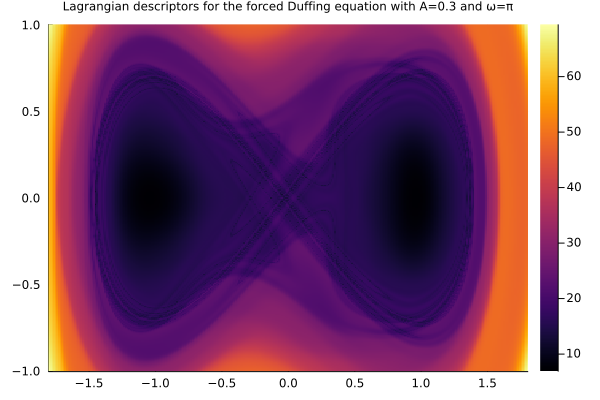
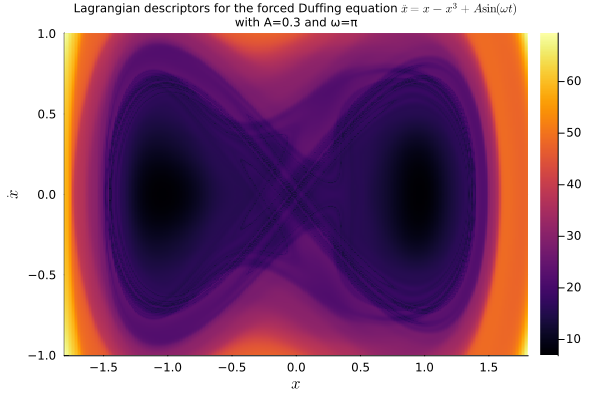
reorganize

diff --git a/docs/src/tutorial_ODEs.md b/docs/src/tutorial_ODEs.md
@@ -1,0 +1,100 @@
+# Ordinary Differential Equations
+
+We considere, here, some examples of applying the Lagragian descriptor method to equations of the type `ODEProblem`.
+
+## Periodically-forced Duffing equation
+
+We start with an application of the method of Lagrangian descriptors to the periodically-forced Duffing equation
+
+```math
+\ddot x = x - x^3 + A\sin(\omega t).
+```
+
+With `LagrangianDescriptors.jl`, we start by setting up the equation as an `ODEProblem` from [SciML/DifferentialEquations.jl](https://github.com/SciML/DifferentialEquations.jl).
+
+Next, we wrap that as a `LagrangianDescriptorProblem` from `LagrangianDescriptors.jl`, which we can solve as an ensemble problem.
+
+Finally, we plot the result with the built-in plot recipe.
+
+So we first load the relevant packages:
+
+```julia duffing
+using OrdinaryDiffEq, Plots
+using LinearAlgebra: norm
+using LagrangianDescriptors
+```
+
+Next we set up the `ODEProblem`:
+
+```julia duffing
+function f!(du, u, p, t)
+    x, y = u
+    A, ω = p
+    du[1] = y
+    du[2] = x - x^3 + A * cos(ω * t)
+end
+
+u0 = [0.5, 2.2]
+tspan = (0.0, 13.0)
+A = 0.3; ω = π; p = (A, ω)
+
+prob = ODEProblem(f!, u0, tspan, p)
+```
+
+With the ODE problem setup, we choose an infinitesimal Lagrangian descriptor, a collection of initial conditions on the phase space, which is the region to be "painted", and finally we build the `LagrangianDescriptorProblem`:
+
+```julia duffing
+M(du, u, p, t) = norm(du)
+
+uu0 = [[x, y] for y in range(-1.0, 1.0, length=301), x in range(-1.8, 1.8, length=301)]
+
+lagprob = LagrangianDescriptorProblem(prob, M, uu0)
+```
+
+The Lagrangian descriptors are the time-integration of the infinitesimal descriptor along forward and backward solutions of the equation. They are integrated along with the solutions by "solving" the `LagrangianDescriptorProblem`, with an overload of the `solve` method from the [SciML](https://sciml.ai) ecosystem:
+
+```julia duffing
+lagsol = solve(lagprob, Tsit5())
+```
+
+With the solution at hand, we plot the Lagrangian descriptors to visualize the dynamics of the system:
+
+```julia duffing
+plot(lagsol, title="Lagrangian descriptors for the forced Duffing equation \$\\ddot x = x - x^3 + A\\sin(\\omega t)\$\nwith A=$A and ω=$ω", titlefont=8, xlabel="\$x\$", ylabel="\$\\dot x\$")
+
+savefig("img/duffing.png")
+```
+
+![Duffing](img/duffing.png)
+
+We may zoom closer to the origin to find the following "painting":
+
+```julia duffing
+uu0 = [[x, y] for y in range(-0.6, 0.3, length=601), x in range(-0.2, 0.4, length=401)]
+lagprob = LagrangianDescriptorProblem(prob, M, uu0)
+
+lagsol = solve(lagprob, Tsit5());
+
+plot(lagsol, title="Lagrangian descriptors for the forced Duffing equation \$\\ddot x = x - x^3 + A\\sin(\\omega t)\$\nwith A=$A and ω=$ω", titlefont=8, xlabel="\$x\$", ylabel="\$\\dot x\$")
+
+savefig("img/duffing2.png")
+```
+
+![Duffing](img/duffing2.png)
+
+If we want to change parameters, we just `remake` the original `ODEProblem` (in the future I should add the option to remake the `LagrangianDescriptorProblem` itself.)
+
+```julia
+A = 5.0; ω = 2π; p = (A, ω);
+prob = remake(prob, p=p)
+uu0 = [[x, y] for y in range(-0.5, 0.2, length=501), x in range(-0.3, 0.2, length=401)]
+lagprob = LagrangianDescriptorProblem(prob, M, uu0)
+
+lagsol = solve(lagprob, Tsit5());
+
+plot(lagsol, title="Lagrangian descriptors for the forced Duffing equation \$\\ddot x = x - x^3 + A\\sin(\\omega t)\$\nwith A=$A and ω=$ω", titlefont=8, xlabel="\$x\$", ylabel="\$\\dot x\$")
+
+savefig("img/duffing3.png")
+```
+
+![Duffing](img/duffing3.png)

diff --git a/docs/src/index.md b/docs/src/index.md
@@ -8,15 +8,15 @@ The method is akin to droping colored ink in a fluid flow, tracking the dye as i
 
 It is similar to drawing a phase portrait, which displays a collection of orbits, but in this method each orbit is painted according to its dynamic behavior, better revealing the overall picture.
 
-The image below, for instance, shows the dynamics of a periodically-forced Duffing equation, with a particular combination of parameters and near time $t=0$:
+The image below, for instance, shows the dynamics of a periodically-forced Duffing equation, with a particular combination of parameters and near time $t=0$ (see [Tutorial: Periodically-forced Duffing equation](tutorial_ODEs.md#Periodically-forced-Duffing-equation)):
 
 ![Duffing](img/duffing.png)
 
-## How it works?
+## How it works
 
 The package works by 
 1. taking a differential equation problem of a type defined by [SciML/DifferentialEquations.jl](https://github.com/SciML/DifferentialEquations.jl), with a given time span ``(t_0, t_f)``;
-1. taking an *infinitesimal descriptor* ``M=M(du, u, p, t)`` that will be integrated along a solution ``u(t) = u(t; u_0)``, to yield the forward Lagrangian descriptor ``L_{\mathrm{fwd}}(u_0) = \int_{t_0}^{t_f} M(du(t), u(t), p, t)\;\mathrm{d}t`` and, similarly, the backward Lagrangian descriptor, for a given initial condition ``u_0``;
+1. taking an *infinitesimal descriptor* ``M=M(du, u, p, t)`` that will be integrated along a solution ``u(t) = u(t; u_0)``, to yield the forward Lagrangian descriptor ``L_{\mathrm{fwd}}(u_0) = \int_{t_0}^{t_f} M(du(t), u(t), p, t)\;\mathrm{d}t`` and, similarly, the backward Lagrangian descriptor ``L_{\mathrm{bwd}}(u_0) = \int_{t_0}^{t_f} M(du(-t), u(-t), p, 2t_0 - t)\;\mathrm{d}t``, for a given initial condition ``u_0``;
 1. generating an *augmented* problem of the same time and with four components, for solving the original equation forward and backward in time, and for solving the Lagrangian descriptors forward and backward in time, as well;
 1. creating a `LagrangianDescriptorProblem` wrapping an [EnsembleProblem](https://diffeq.sciml.ai/dev/features/ensemble/) for the augmented system and with a given collection ``uu_0`` of initial conditions.
 1. solving the wrapped ensemble problem and returning a `LagrangianDescriptorSolution` containing the associated collection of (forward and backward) Lagrangian descriptors values at the final time of the simulations (which is ``t_f`` for the forward components and ``2t_0 - t_f`` for the backward ones).
@@ -30,6 +30,8 @@ The plot recipe works for some types of collections of initial conditions (e.g. 
 
 ## Developers
 
-LagrangianDescriptors is currently being developed by [Ricardo M. S. Rosa](https://rmsrosa.github.io), but contributors are welcome.
+[JuliaDynamics/LagrangianDescriptors.jl](https://github.com/JuliaDynamics/LagrangianDescriptors.jl) is currently being developed by [Ricardo M. S. Rosa](https://rmsrosa.github.io), but contributors are welcome.
 
 ## Cite
+
+Just cite the github repo [JuliaDynamics/LagrangianDescriptors.jl](https://github.com/JuliaDynamics/LagrangianDescriptors.jl) for now, while the package is not yet registered.

diff --git a/docs/src/api.md b/docs/src/api.md
@@ -1,4 +1,20 @@
 # API
+## Problems
 
-```@index
+```@docs
+LagrangianDescriptors.augmentprob
+```
+
+```@docs
+LagrangianDescriptors.LagrangianDescriptorProblem
+```
+
+## Solutions
+
+```@docs
+LagrangianDescriptors.LagrangianDescriptorSolution
+```
+
+```@docs
+LagrangianDescriptors.solve
 ```
